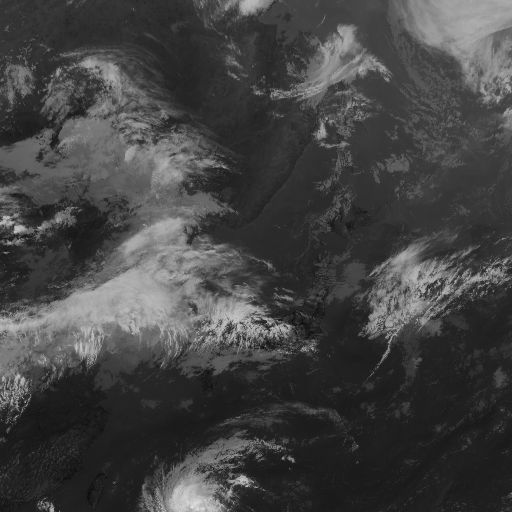
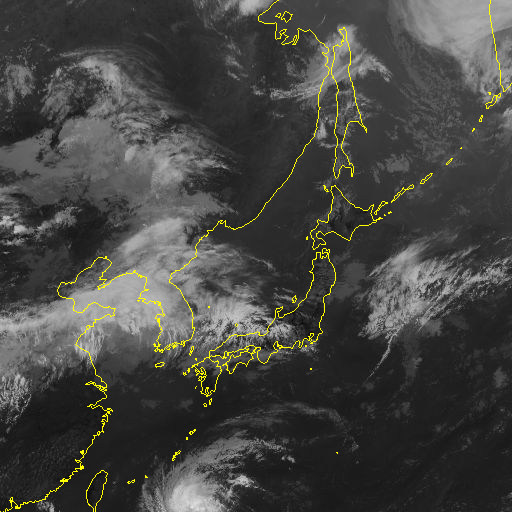
ID-32: 衛星赤外画像に海岸線オーバーレイを追加
生のひまわり赤外タイルには海岸線が無く陸海の境目が分からなかったため、
Natural Earth 1:50m coastline(パブリックドメイン)を東アジア域に絞り込み
coastline_ea.jsonとして同梱。fetch_chart.pyでWeb Mercatorタイル座標に
変換して黄線で重ね描き。既存の2026-09-25画像にも同じ描画を適用し、
CHARTS.md/SLIDES.pdfに反映。

diff --git a/experiments/cs32_chart_vlm/fetch_chart.py b/experiments/cs32_chart_vlm/fetch_chart.py
@@ -11,16 +11,20 @@
 """
 import io
 import json
+import math
 import sys
 from datetime import datetime, timedelta
 from pathlib import Path
 
 import requests
-from PIL import Image
+from PIL import Image, ImageDraw
 
 BASE = "https://www.jma.go.jp/bosai"
 UA = {"User-Agent": "weather-hackathon-spike (personal research)"}
 DATA = Path(__file__).parent / "data"
+COASTLINE = json.loads((Path(__file__).parent / "coastline_ea.json").read_text())
+# fetch_ir のタイル範囲: z=4, x=13,14 / y=5,6（東経112〜157度・北緯22〜55度）
+IR_Z, IR_X0, IR_Y0 = 4, 13, 5
 
 # 実況の裏取りに使う主要地点（アメダス地点コード）
 STATIONS = {
@@ -48,20 +52,42 @@ def chart_valid_utc(name):
     return name.split("_")[6]
 
 
+def lonlat_to_tile(lon, lat, z):
+    """緯度経度 → スリッピータイル座標(浮動小数)。標準の Web Mercator タイル方式。"""
+    xtile = (lon + 180.0) / 360.0 * (2 ** z)
+    lat_rad = math.radians(lat)
+    ytile = (1.0 - math.log(math.tan(lat_rad) + 1.0 / math.cos(lat_rad)) / math.pi) / 2.0 * (2 ** z)
+    return xtile, ytile
+
+
+def draw_coastline(canvas, z, x0, y0, tile_px=256):
+    """coastline_ea.json（Natural Earth 1:50m, パブリックドメイン）の線を canvas に描く。"""
+    draw = ImageDraw.Draw(canvas)
+    for line in COASTLINE["lines"]:
+        pts = []
+        for lon, lat in line:
+            xt, yt = lonlat_to_tile(lon, lat, z)
+            pts.append(((xt - x0) * tile_px, (yt - y0) * tile_px))
+        if len(pts) >= 2:
+            draw.line(pts, fill=(255, 255, 0), width=1)
+
+
 def fetch_ir(out, target_utc):
     """ひまわり赤外 B13 を全球(fd)の z=4 2x2 タイル(x=13,14 / y=5,6 ≒ 東経112〜157度・北緯22〜55度)で結合する。
 
     jp 域は斜めに欠けた範囲しかなく太平洋側が空白になるため fd を使う。
+    生の赤外画像には海岸線が無く陸海の境目が分からないため、Natural Earth の海岸線を重ね描きする。
     """
     times = get(f"{BASE}/himawari/data/satimg/targetTimes_fd.json").json()
     # 天気図の対象時刻に最も近い観測を選ぶ（時刻ずれで解説と実況が食い違うのを防ぐ）
     t = min(times, key=lambda x: abs(int(x["validtime"]) - int(target_utc)))
     base, valid = t["basetime"], t["validtime"]
     canvas = Image.new("RGB", (512, 512))
-    for yi, y in enumerate((5, 6)):
-        for xi, x in enumerate((13, 14)):
-            url = f"{BASE}/himawari/data/satimg/{base}/fd/{valid}/B13/TBB/4/{x}/{y}.jpg"
+    for yi, y in enumerate((IR_Y0, IR_Y0 + 1)):
+        for xi, x in enumerate((IR_X0, IR_X0 + 1)):
+            url = f"{BASE}/himawari/data/satimg/{base}/fd/{valid}/B13/TBB/{IR_Z}/{x}/{y}.jpg"
             canvas.paste(Image.open(io.BytesIO(get(url).content)).convert("RGB"), (xi * 256, yi * 256))
+    draw_coastline(canvas, IR_Z, IR_X0, IR_Y0)
     canvas.save(out)
     return {"basetime": base, "validtime": valid}
 
